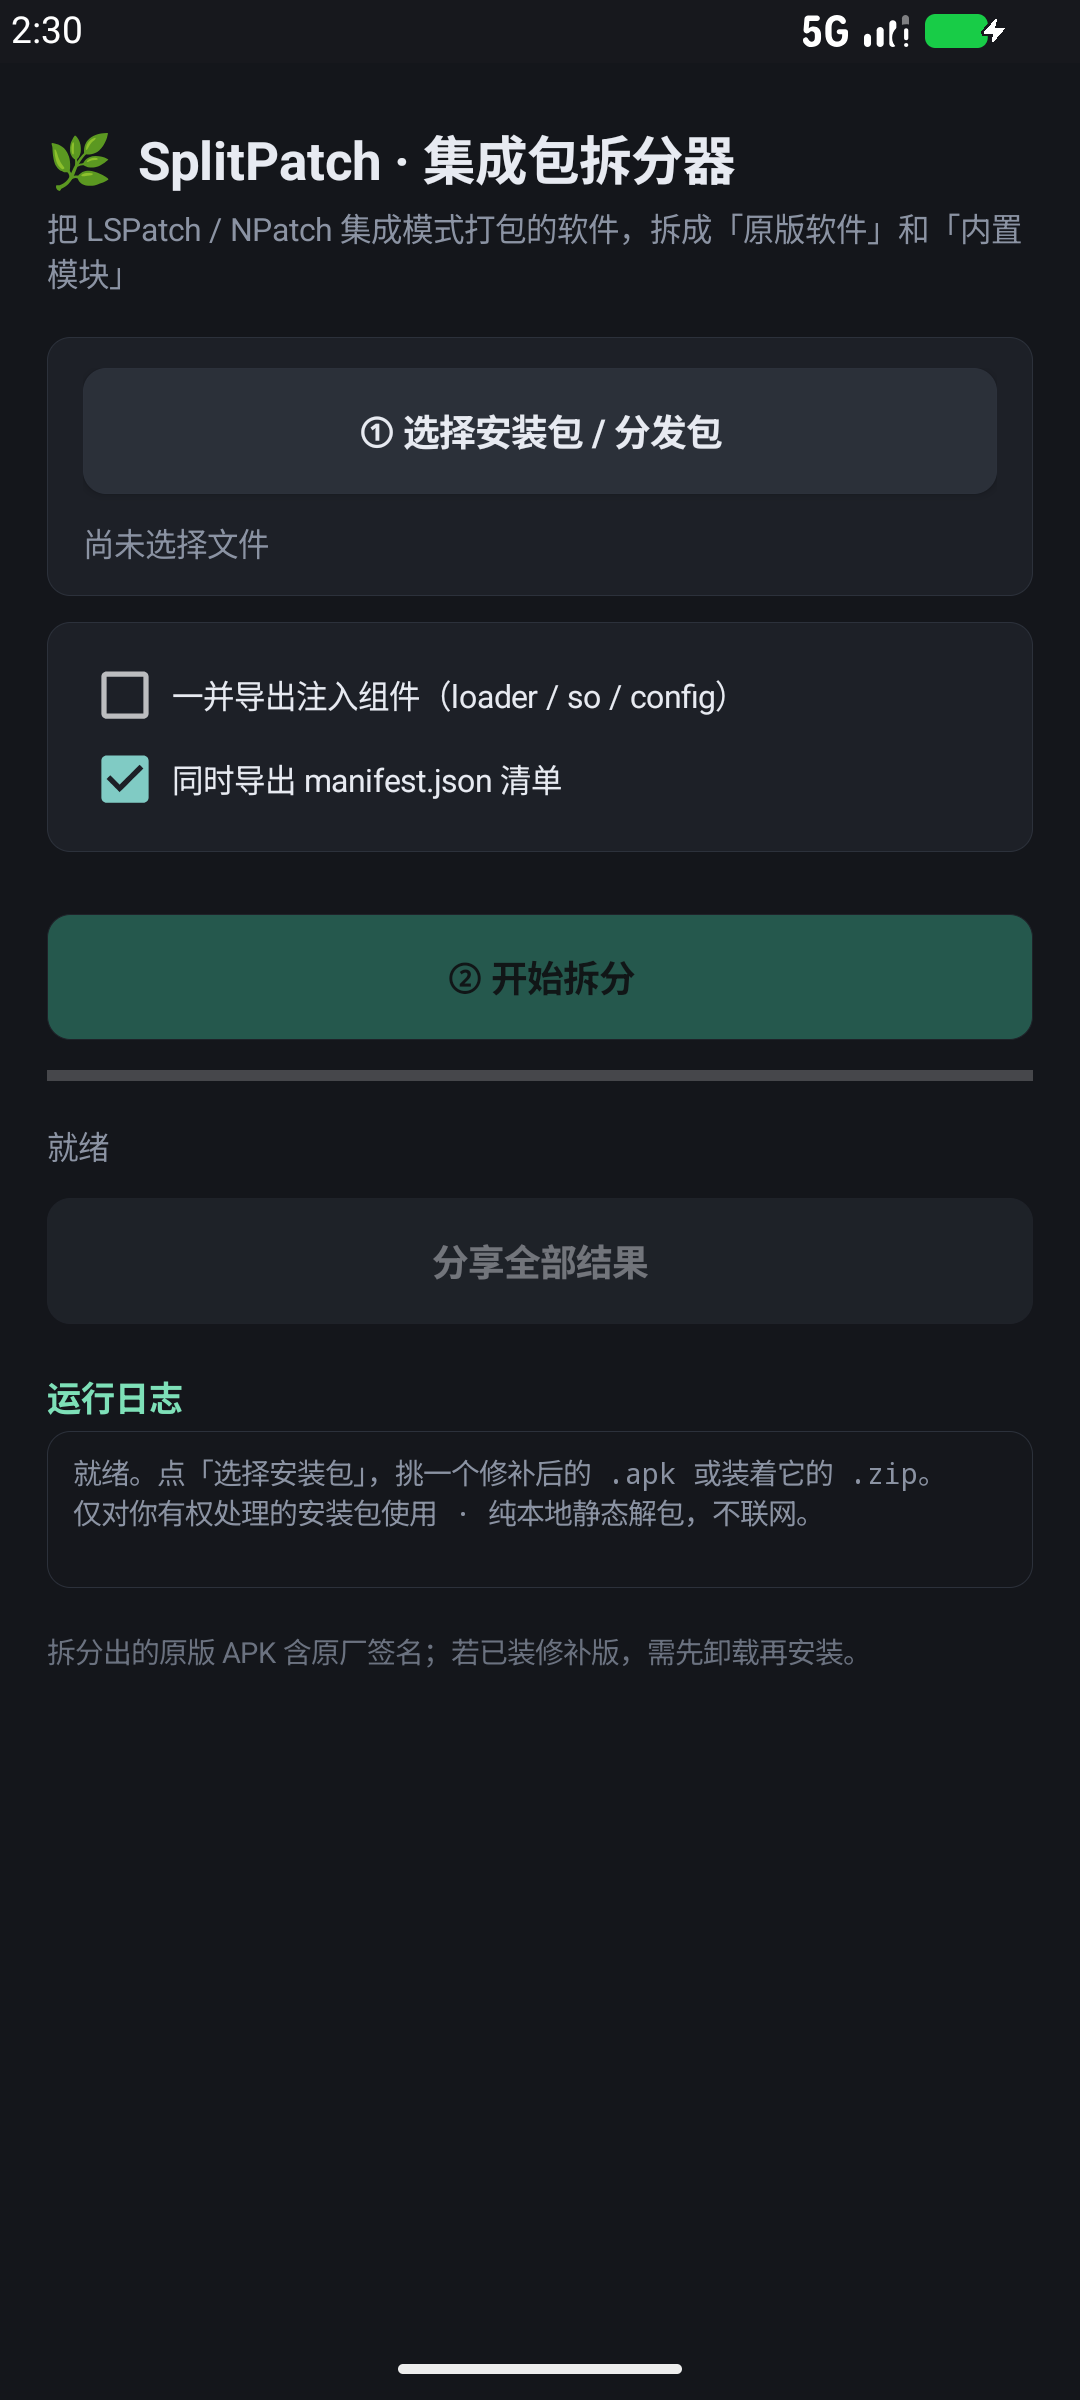
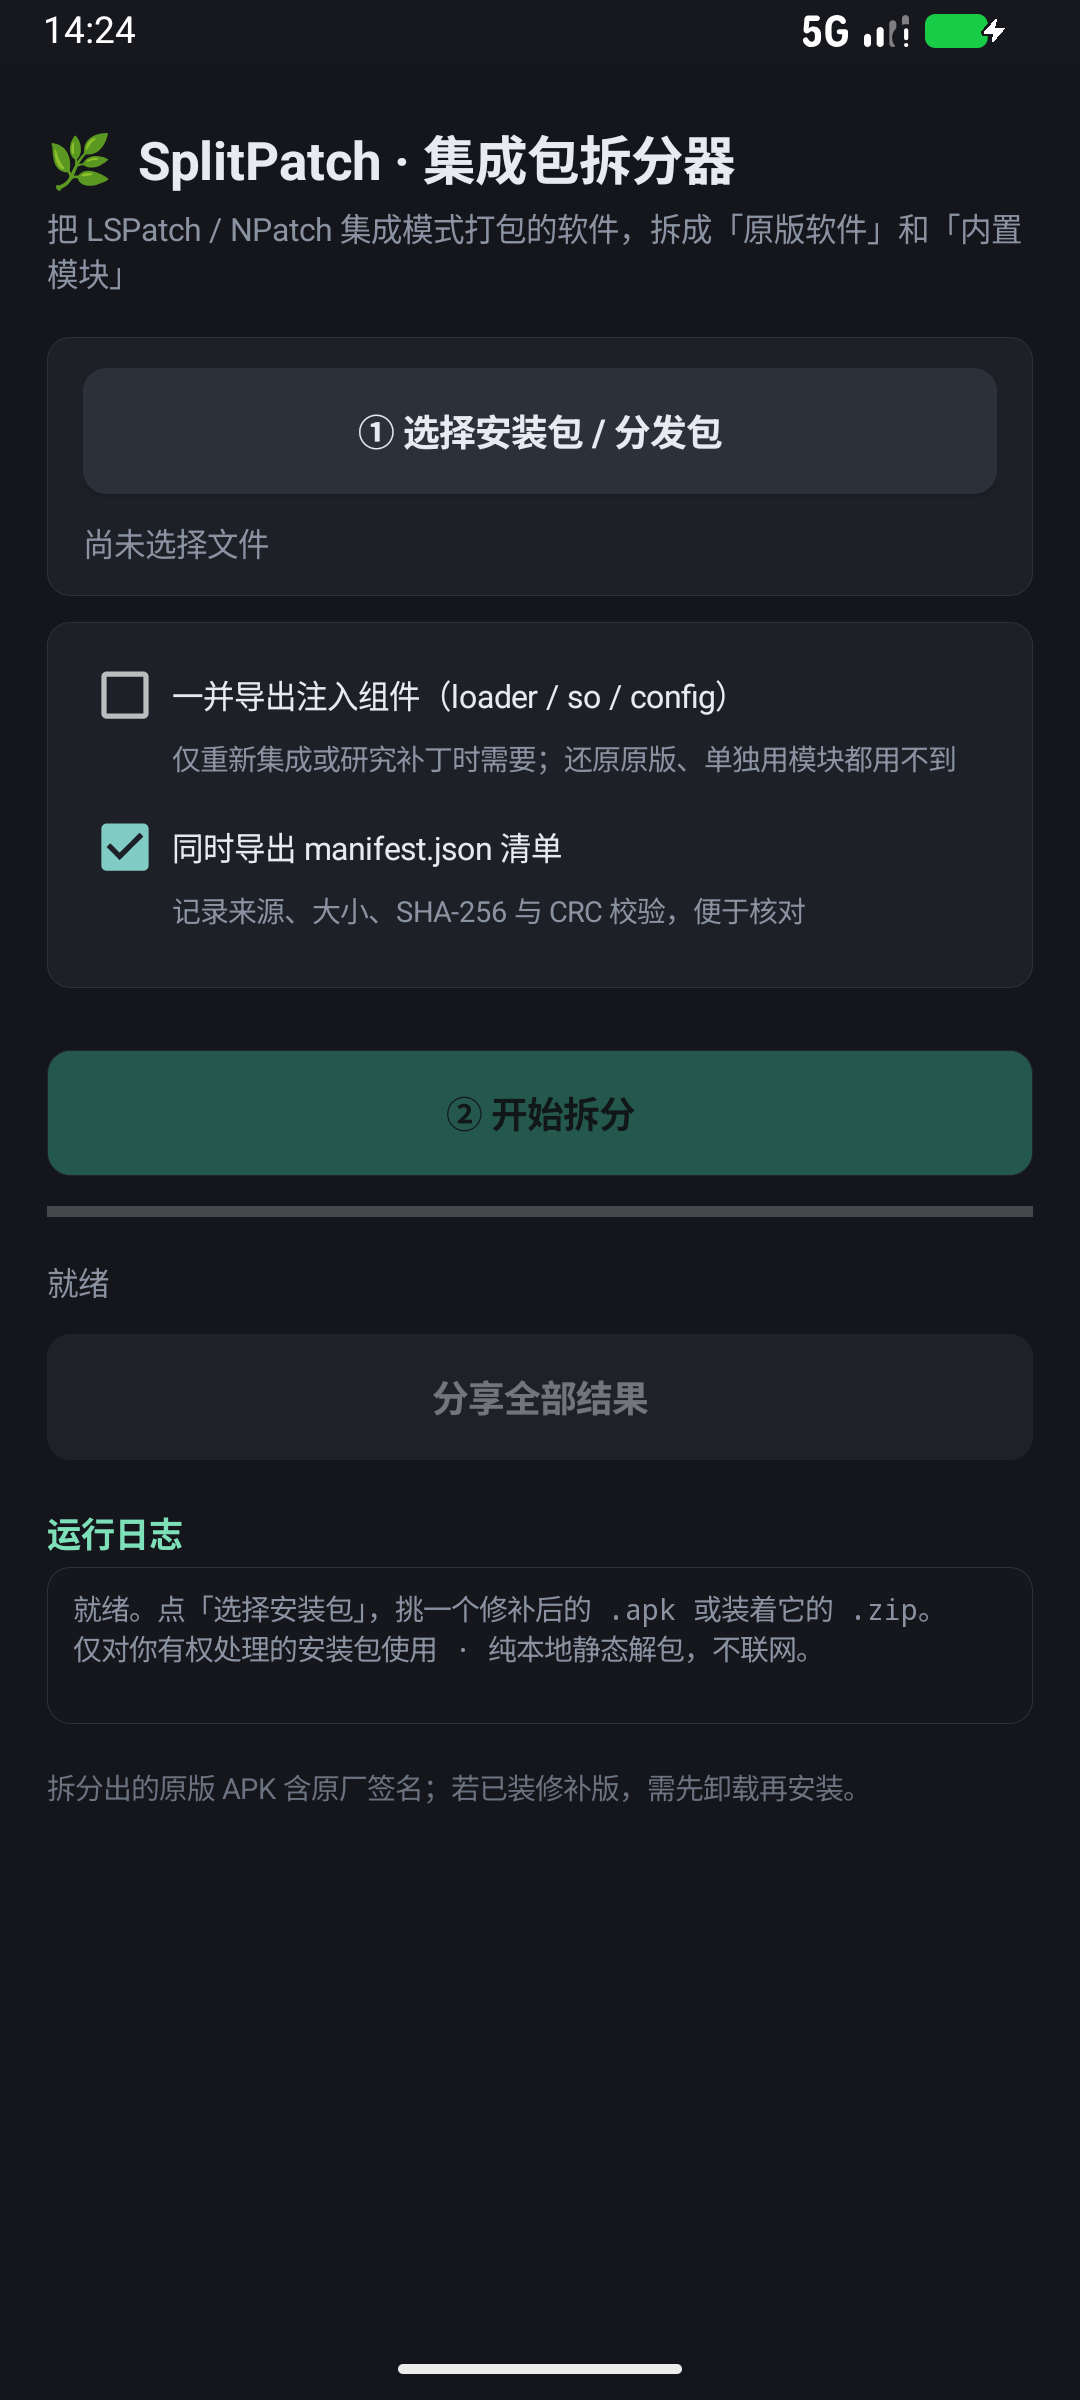
Add inline option hints and bump to v1.1.0

diff --git a/SplitPatch/splitpatch_gui.py b/SplitPatch/splitpatch_gui.py
@@ -85,7 +85,7 @@ class App:
     def build_ui(self) -> None:
         r = self.root
         r.title(f"SplitPatch · 集成包拆分器  v{sp.__version__}")
-        r.geometry("1020x740")  # 默认宽度下三个选项正好一行放得下；拉窄会自动换行
+        r.geometry("1120x740")  # 加了小字后块变宽，1120 下三个选项正好一行；拉窄会自动换行
         r.minsize(860, 620)
         r.configure(bg=BG)
 
@@ -122,22 +122,31 @@ class App:
         self.btn_auto = self.mkbutton(form, "自动", self.auto_output, small=True)
         self.btn_auto.grid(row=1, column=3, padx=(6, 12), pady=8)
 
-        # 选项区：宽度不够时自动换行。原先三个复选框硬排一行，
-        # 窗口没最大化 / 系统 DPI 放大字体后，最后一项会被父容器直接裁掉。
+        # 选项区：每个选项是「复选框 + 一行小字」的块，宽度不够时整块换行。
+        # 原先三个复选框硬排一行，窗口没最大化 / 系统 DPI 放大字体后，最后一项会被裁掉。
         opts = tk.Frame(form, bg=PANEL)
         opts.grid(row=2, column=0, columnspan=4, sticky="we", padx=14, pady=(2, 12))
         self.opt_frame = opts
+        self.opt_blocks: list[tk.Frame] = []
         self.opt_checks: list[tk.Checkbutton] = []
         self._opt_width: int | None = None
-        for text, var in [
-            ("生成 HTML 拆分报告", self.var_report),
-            ("一并导出注入组件（loader / so / config）", self.var_injected),
-            ("无原版时导出散文件（仅供分析）", self.var_payload),
+        for title, hint, var in [
+            ("生成 HTML 拆分报告", "结构、校验值、注入组件一页看完", self.var_report),
+            ("一并导出注入组件（loader / so / config）", "仅重新集成或研究补丁时需要", self.var_injected),
+            ("无原版时导出散文件（仅供分析）", "没有内嵌原版时逐条导出，便于排查", self.var_payload),
         ]:
-            cb = tk.Checkbutton(opts, text=text, variable=var, bg=PANEL, fg=FG,
+            block = tk.Frame(opts, bg=PANEL)
+            cb = tk.Checkbutton(block, text=title, variable=var, bg=PANEL, fg=FG,
                                 selectcolor="#2b3039", activebackground=PANEL,
                                 activeforeground=FG, font=FONT_SMALL, bd=0,
-                                highlightthickness=0)
+                                highlightthickness=0, anchor="w")
+            cb.pack(anchor="w")
+            tip = tk.Label(block, text=hint, font=FONT_SMALL, bg=PANEL, fg=MUTED,
+                           anchor="w", justify="left", cursor="hand2")
+            # 小字缩进约 18px，对齐复选框文字；点它等同于点方框
+            tip.pack(anchor="w", padx=(18, 0))
+            tip.bind("<Button-1>", lambda e, v=var: v.set(not v.get()))
+            self.opt_blocks.append(block)
             self.opt_checks.append(cb)
         opts.bind("<Configure>", self._relayout_opts)
         self.root.after_idle(self._relayout_opts)
@@ -235,10 +244,11 @@ class App:
         )
 
     def _relayout_opts(self, event=None):
-        """按当前宽度给复选框贪心分行，窗口再窄也不会被裁掉。
+        """按当前宽度给选项块贪心分行，窗口再窄也不会被裁掉。
 
         pack(side="left") 放不下时 tkinter 是直接裁切、不会换行；改用 grid，
         容器尺寸变化时重新算「这一行还能塞几个」。DPI 缩放把字体放大时也照样生效。
+        每个块含复选框和它下面那行小字，按块的整体宽度计算。
         """
         avail = self.opt_frame.winfo_width()
         if avail < 80:
@@ -249,9 +259,9 @@ class App:
 
         gap = 20
         widths = []
-        for cb in self.opt_checks:
-            cb.update_idletasks()
-            widths.append(max(120, cb.winfo_reqwidth()))  # 纯控件宽，间隔单独算
+        for block in self.opt_blocks:
+            block.update_idletasks()
+            widths.append(max(150, block.winfo_reqwidth()))  # 纯控件宽，间隔单独算
 
         rows: list[list[int]] = []
         cur: list[int] = []
@@ -267,12 +277,12 @@ class App:
         if cur:
             rows.append(cur)
 
-        for cb in self.opt_checks:
-            cb.grid_forget()
+        for block in self.opt_blocks:
+            block.grid_forget()
         for r, row in enumerate(rows):
             for c, idx in enumerate(row):
-                self.opt_checks[idx].grid(row=r, column=c, sticky="w",
-                                         padx=(0, gap), pady=(0, 3))
+                self.opt_blocks[idx].grid(row=r, column=c, sticky="w",
+                                          padx=(0, gap), pady=(0, 4))
 
     # -----------------------------------------------------------------------
     # 交互

diff --git a/Android/app/java/top/nkbe/splitpatch/MainActivity.java b/Android/app/java/top/nkbe/splitpatch/MainActivity.java
@@ -113,10 +113,10 @@ public class MainActivity extends Activity {
         // 选项卡片
         LinearLayout optCard = card();
         optCard.setOrientation(LinearLayout.VERTICAL);
-        chkInjected = check("一并导出注入组件（loader / so / config）", false);
-        chkManifest = check("同时导出 manifest.json 清单", true);
-        optCard.addView(chkInjected);
-        optCard.addView(chkManifest);
+        chkInjected = option(optCard, "一并导出注入组件（loader / so / config）",
+                "仅重新集成或研究补丁时需要；还原原版、单独用模块都用不到", false);
+        chkManifest = option(optCard, "同时导出 manifest.json 清单",
+                "记录来源、大小、SHA-256 与 CRC 校验，便于核对", true);
         box.addView(optCard, cardLp());
 
         btnSplit = button("② 开始拆分", true);
@@ -196,6 +196,29 @@ public class MainActivity extends Activity {
         c.setChecked(checked);
         c.setPadding(dp(2), dp(4), dp(2), dp(4));
         return c;
+    }
+
+    /**
+     * 带一行小字说明的选项。
+     * 小字缩进 34dp 对齐 CheckBox 标题文字，点小字等同于点方框（扩大可点区域）。
+     */
+    private CheckBox option(LinearLayout parent, String title, String hint, boolean checked) {
+        final CheckBox cb = check(title, checked);
+
+        LinearLayout block = new LinearLayout(this);
+        block.setOrientation(LinearLayout.VERTICAL);
+        block.addView(cb);
+
+        TextView tv = text(hint, 11, MUTED, false);
+        tv.setPadding(dp(34), 0, dp(6), dp(10));
+        tv.setLineSpacing(dp(2), 1f);
+        tv.setOnClickListener(new View.OnClickListener() {
+            public void onClick(View v) { cb.toggle(); }
+        });
+        block.addView(tv);
+
+        parent.addView(block);
+        return cb;
     }
 
     private GradientDrawable panelDrawable(int color) {

diff --git a/Android/build_apk.py b/Android/build_apk.py
@@ -38,6 +38,8 @@ APKSIGNER_JAR = BUILD_TOOLS / "lib" / "apksigner.jar"
 
 MIN_SDK = 26       # Android 8.0
 TARGET_SDK = 34    # 本地分发，避开 Android 15 强制 edge-to-edge 导致的标题遮挡
+VERSION_CODE = "2"   # 必须单调递增，否则手机上覆盖安装会失败
+VERSION_NAME = "1.1"
 STORE_PASS = "splitpatch-local"
 KEY_PASS = "splitpatch-local"
 
@@ -96,8 +98,8 @@ def main() -> int:
         "--java", gen_dir,
         "--min-sdk-version", MIN_SDK,
         "--target-sdk-version", TARGET_SDK,
-        "--version-code", "1",
-        "--version-name", "1.0",
+        "--version-code", VERSION_CODE,
+        "--version-name", VERSION_NAME,
     ], "aapt2 link")
 
     print("[3/9] 编译 Java 源码")

diff --git a/SplitPatch/splitpatch.py b/SplitPatch/splitpatch.py
@@ -59,7 +59,7 @@ from datetime import datetime
 from pathlib import Path
 from typing import BinaryIO, Callable, Iterable, Iterator
 
-__version__ = "1.0.0"
+__version__ = "1.1.0"
 TOOL_NAME = "SplitPatch · 集成包拆分器"
 
 # ZIP local file header: 签名/版本/标志/压缩方法/时间/日期/CRC/压缩大小/原始大小/名长/扩展长

diff --git a/README.en.md b/README.en.md
@@ -198,7 +198,9 @@ already installed on your phone.
 
 ## Version
 
-`v1.0.0` · First release · Windows GUI + native Android app · engine v1.0.0
+`v1.1.0` · Inline hints under each option (tap the hint to toggle) · Windows GUI + native Android app · engine v1.1.0
+
+See [Releases](https://github.com/zy2755/splitpatch/releases) for the full history.
 
 ## License
 

diff --git a/README.md b/README.md
@@ -167,7 +167,9 @@ python Android/build_apk.py
 
 ## 版本
 
-`v1.0.0` · 首次发布 · Windows GUI + 原生 Android App · 引擎 v1.0.0
+`v1.1.0` · 每个选项下加了小字说明（点小字也能切换）· Windows GUI + 原生 Android App · 引擎 v1.1.0
+
+历史版本见 [Releases](https://github.com/zy2755/splitpatch/releases)。
 
 ---
 
